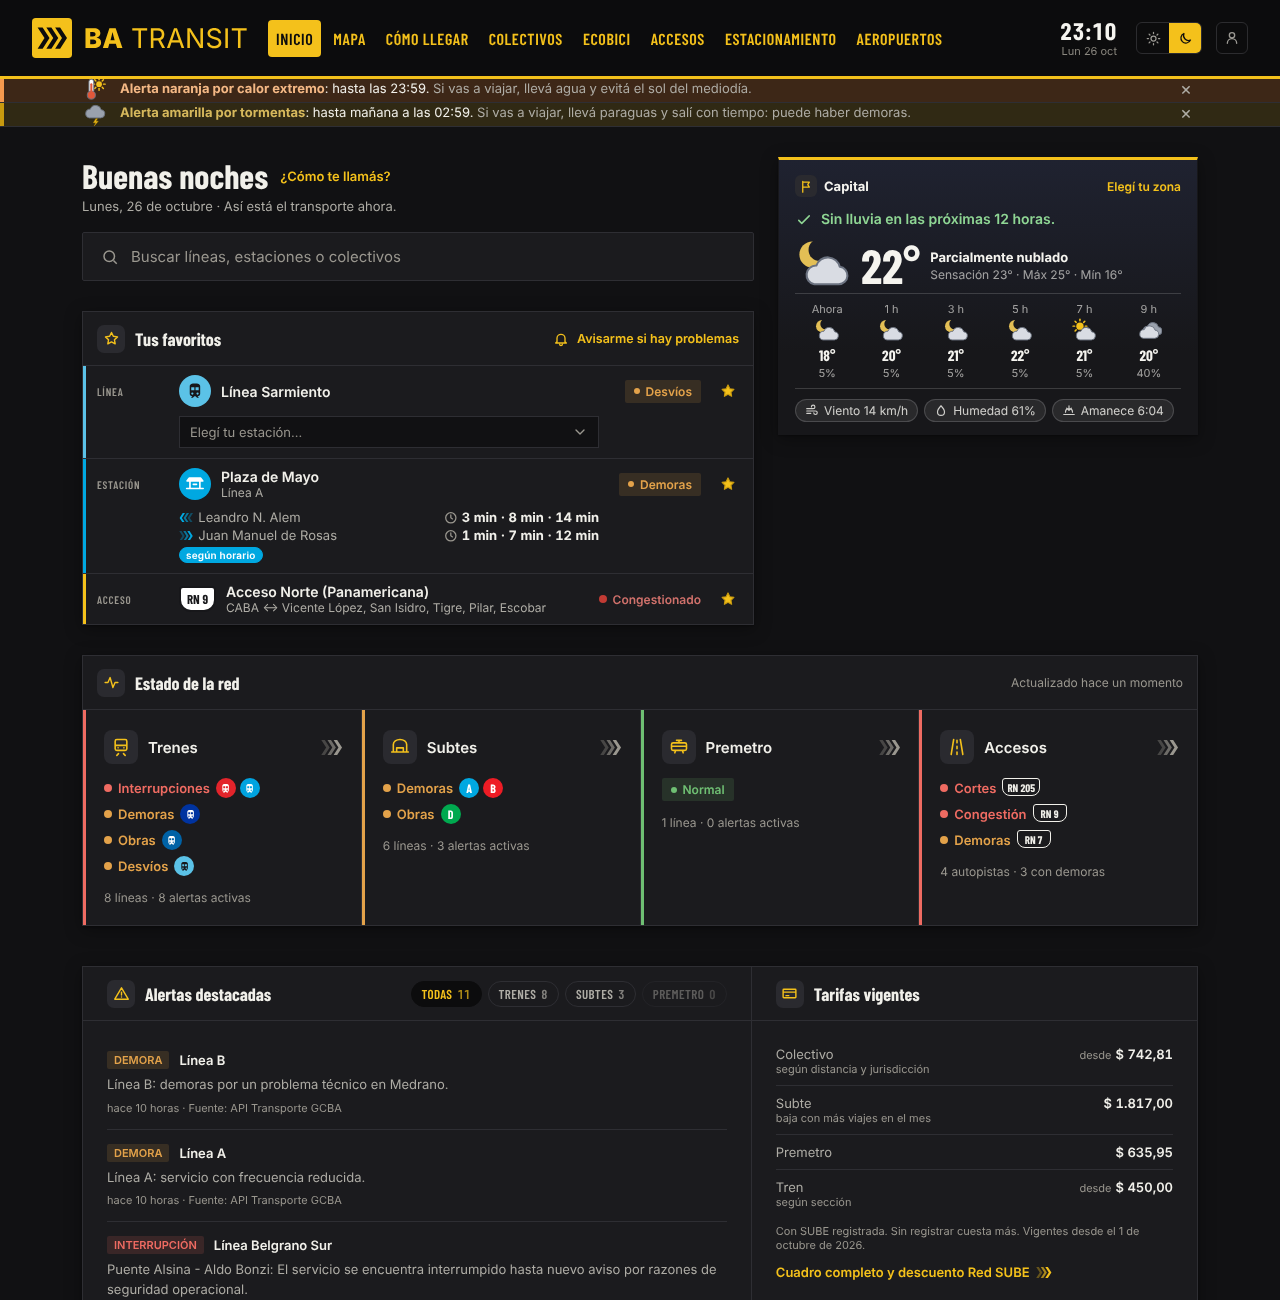
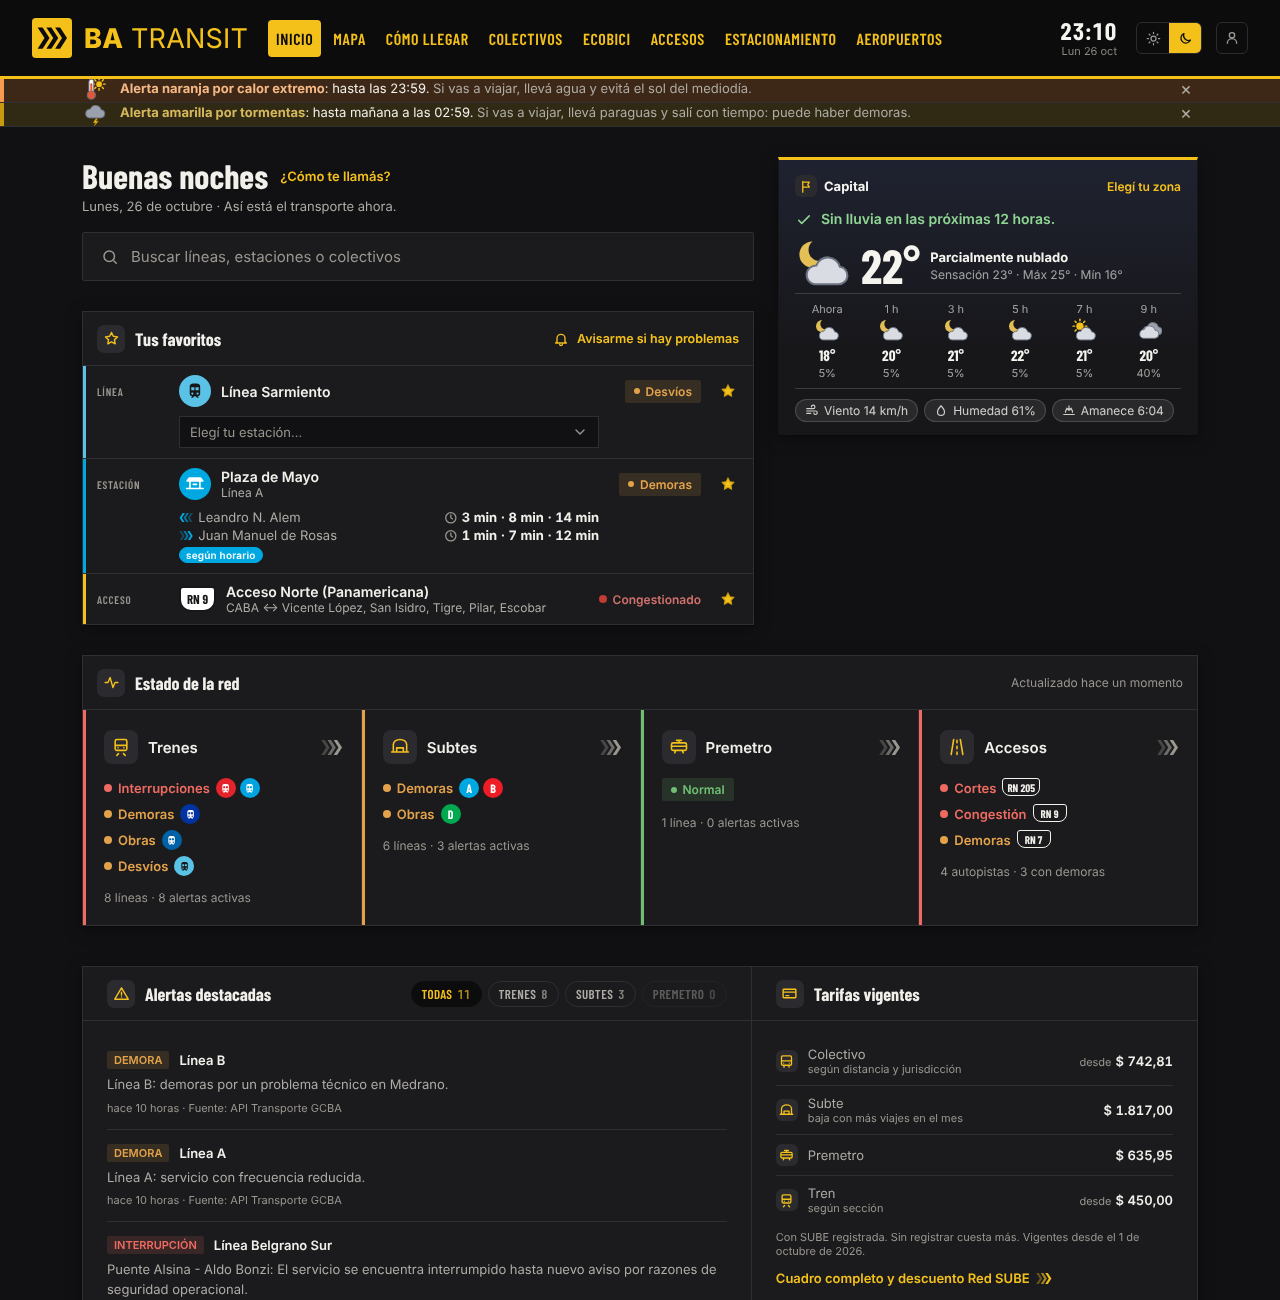
ba-transit v30.8: iconos en tarifas y en las pestanas de eventos y noticias
Cada fila de Tarifas vigentes lleva el icono de su modo. Las pestanas Eventos y cortes y Noticias tienen su icono en un cuadro, como los titulos de los otros paneles, en amarillo la elegida y en gris la otra, y la cantidad de eventos va en una pastilla, amarilla si la pestana esta elegida. En el celular las pestanas entran en un solo renglon. Las capturas del README se actualizaron.

Changed region(s): [[0.5938, 0.8, 0.9062, 1.0], [0.5938, 0.8, 0.7188, 0.8923]]

diff --git a/frontend/src/components/EventCard.css b/frontend/src/components/EventCard.css
@@ -166,6 +166,63 @@
   margin-left: 14px;
 }
 
+/*
+ * Cada pestaña con su icono en un cuadro, como los titulos de los otros
+ * paneles: en amarillo la elegida, en gris la otra.
+ */
+.events-tabs .mode-icon {
+  margin-right: 2px;
+  transition:
+    background-color 0.15s ease,
+    color 0.15s ease;
+}
+
+.events-tabs button:not(.active) .mode-icon {
+  background: var(--surface-hover);
+  color: var(--text-faint);
+  box-shadow: inset 0 0 0 1px var(--line);
+}
+
+/* Cuantos eventos hay: un numero en una pastilla, amarilla si la pestaña esta elegida. */
+.tab-count {
+  display: inline-grid;
+  place-items: center;
+  min-width: 20px;
+  height: 20px;
+  padding: 0 6px;
+  border-radius: 999px;
+  background: var(--surface-hover);
+  box-shadow: inset 0 0 0 1px var(--line);
+  color: var(--text-dim);
+  font-family: 'Barlow Condensed', sans-serif;
+  font-size: 13px;
+  font-weight: 700;
+  line-height: 1;
+  font-variant-numeric: tabular-nums;
+}
+
+.events-tabs button.active .tab-count {
+  background: var(--yellow);
+  box-shadow: none;
+  color: #17171a;
+}
+
+/* En un renglon; en el celular, un poco mas juntas para que entren las dos. */
+.events-tabs button {
+  white-space: nowrap;
+}
+
+@media (max-width: 520px) {
+  .events-tabs button {
+    gap: 6px;
+    font-size: 16px;
+  }
+
+  .events-tabs button + button {
+    margin-left: 8px;
+  }
+}
+
 .events-tabs button.active {
   border-bottom-color: var(--yellow);
   color: var(--text);

diff --git a/frontend/src/components/EventsSection.jsx b/frontend/src/components/EventsSection.jsx
@@ -1,4 +1,5 @@
 import { useState } from 'react'
+import ModeIcon from './ModeIcon.jsx'
 import ExternalTitle from './ExternalTitle.jsx'
 import NewsList from './NewsList.jsx'
 import { useApi } from '../hooks/useApi.js'
@@ -94,8 +95,9 @@ export default function EventsSection() {
           className={tab === 'eventos' ? 'active' : ''}
           onClick={() => choose('eventos')}
         >
+          <ModeIcon mode="EVENTOS" size="title" />
           Eventos y cortes
-          {events.length > 0 && <span className="count">{events.length}</span>}
+          {events.length > 0 && <span className="tab-count">{events.length}</span>}
         </button>
         <button
           type="button"
@@ -106,6 +108,7 @@ export default function EventsSection() {
           className={tab === 'noticias' ? 'active' : ''}
           onClick={() => choose('noticias')}
         >
+          <ModeIcon mode="NOTICIAS" size="title" />
           Noticias
         </button>
       </div>

diff --git a/frontend/src/components/FaresPanel.jsx b/frontend/src/components/FaresPanel.jsx
@@ -27,9 +27,12 @@ export default function FaresPanel({ fares, showMore = true }) {
 
       {summary.map((row) => (
         <div className="fare-row" key={row.mode}>
-          <span className="name">
-            {row.label}
-            {row.hint && <small>{row.hint}</small>}
+          <span className="fare-who">
+            <ModeIcon mode={row.mode} size="sm" />
+            <span className="name">
+              {row.label}
+              {row.hint && <small>{row.hint}</small>}
+            </span>
           </span>
           <span className="value">
             {row.from && <small>desde</small>}

diff --git a/frontend/src/components/FaresPanel.css b/frontend/src/components/FaresPanel.css
@@ -5,7 +5,8 @@
 .fare-row {
   display: flex;
   justify-content: space-between;
-  align-items: baseline;
+  align-items: center;
+  gap: 10px;
   padding: 9px 0;
   font-size: 13px;
   border-bottom: 1px solid var(--line);
@@ -13,6 +14,14 @@
 
 .fare-row:last-of-type {
   border-bottom: none;
+}
+
+/* El icono del modo y su nombre. */
+.fare-who {
+  display: flex;
+  align-items: center;
+  gap: 10px;
+  min-width: 0;
 }
 
 .fare-row .name {

diff --git a/frontend/src/components/ModeIcon.jsx b/frontend/src/components/ModeIcon.jsx
@@ -21,6 +21,7 @@ const PATHS = {
   FAVORITOS: 'M12 3.5l2.6 5.3 5.9.9-4.3 4.1 1 5.8L12 16.9l-5.2 2.7 1-5.8-4.3-4.1 5.9-.9z',
   RED: 'M3 12h4l3-7 4 14 3-7h4',
   ALERTAS: 'M12 4 2.5 20h19zM12 10v4m0 3h.01',
+  EVENTOS: 'M9.5 4h5l4 15h-13zM7.5 10h9M6.4 14.5h11.2M3 19h18',
   ECOBICI: 'M5.5 18a3.5 3.5 0 1 0 0-7 3.5 3.5 0 0 0 0 7zm13 0a3.5 3.5 0 1 0 0-7 3.5 3.5 0 0 0 0 7zM5.5 14.5 9 8h6l3.5 6.5M9 8l3 6.5h-1M14 5h2.5',
 }
 
